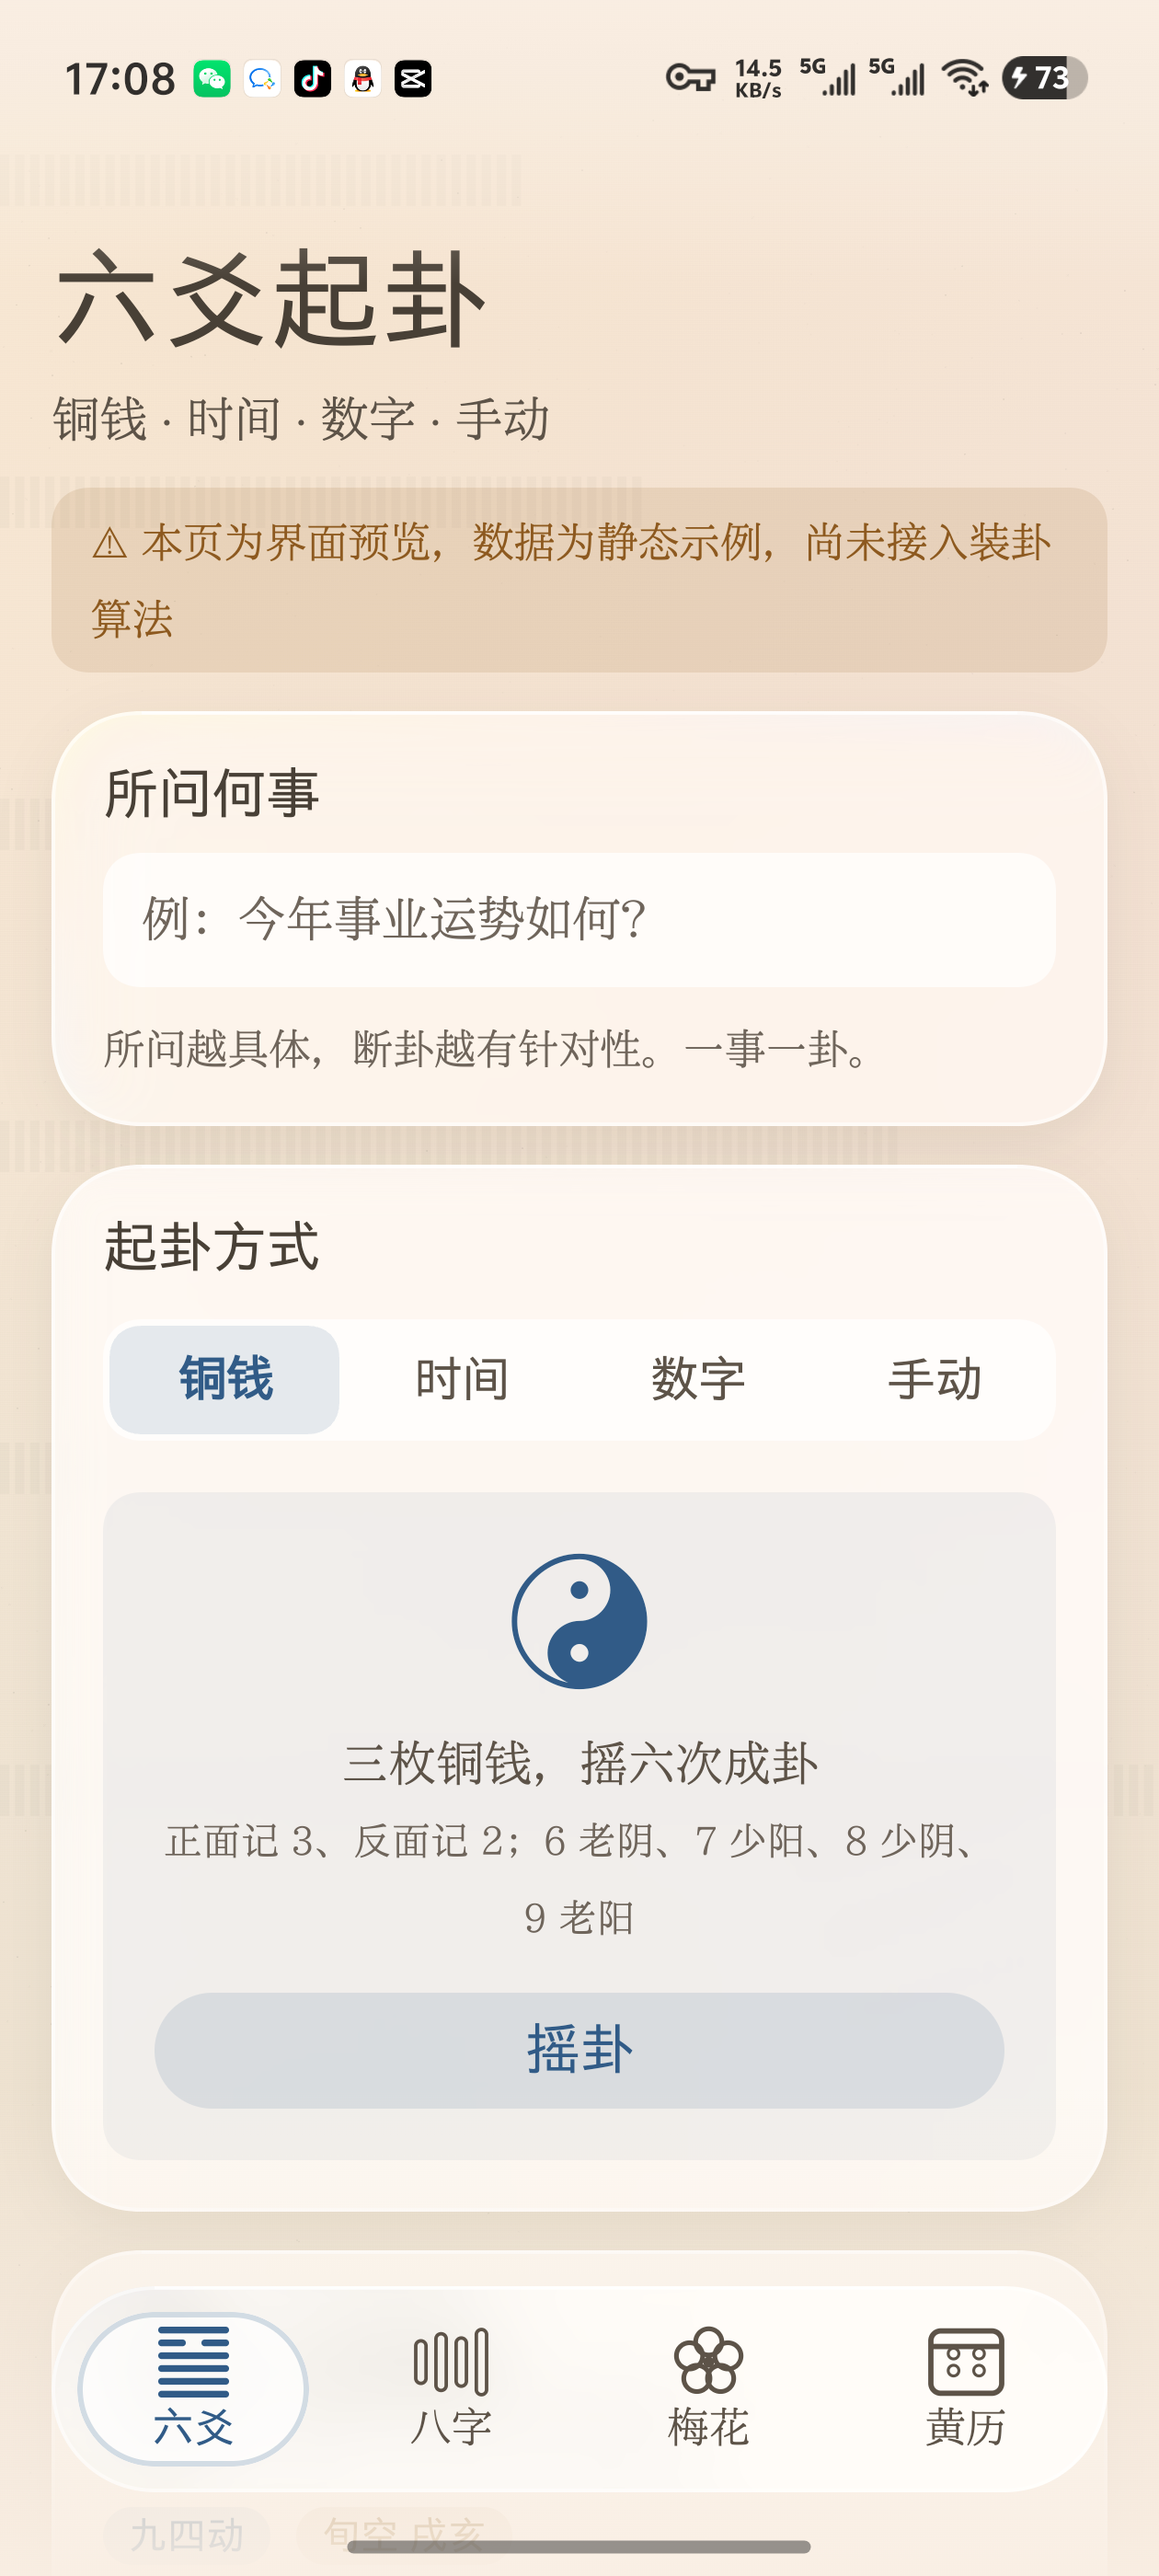
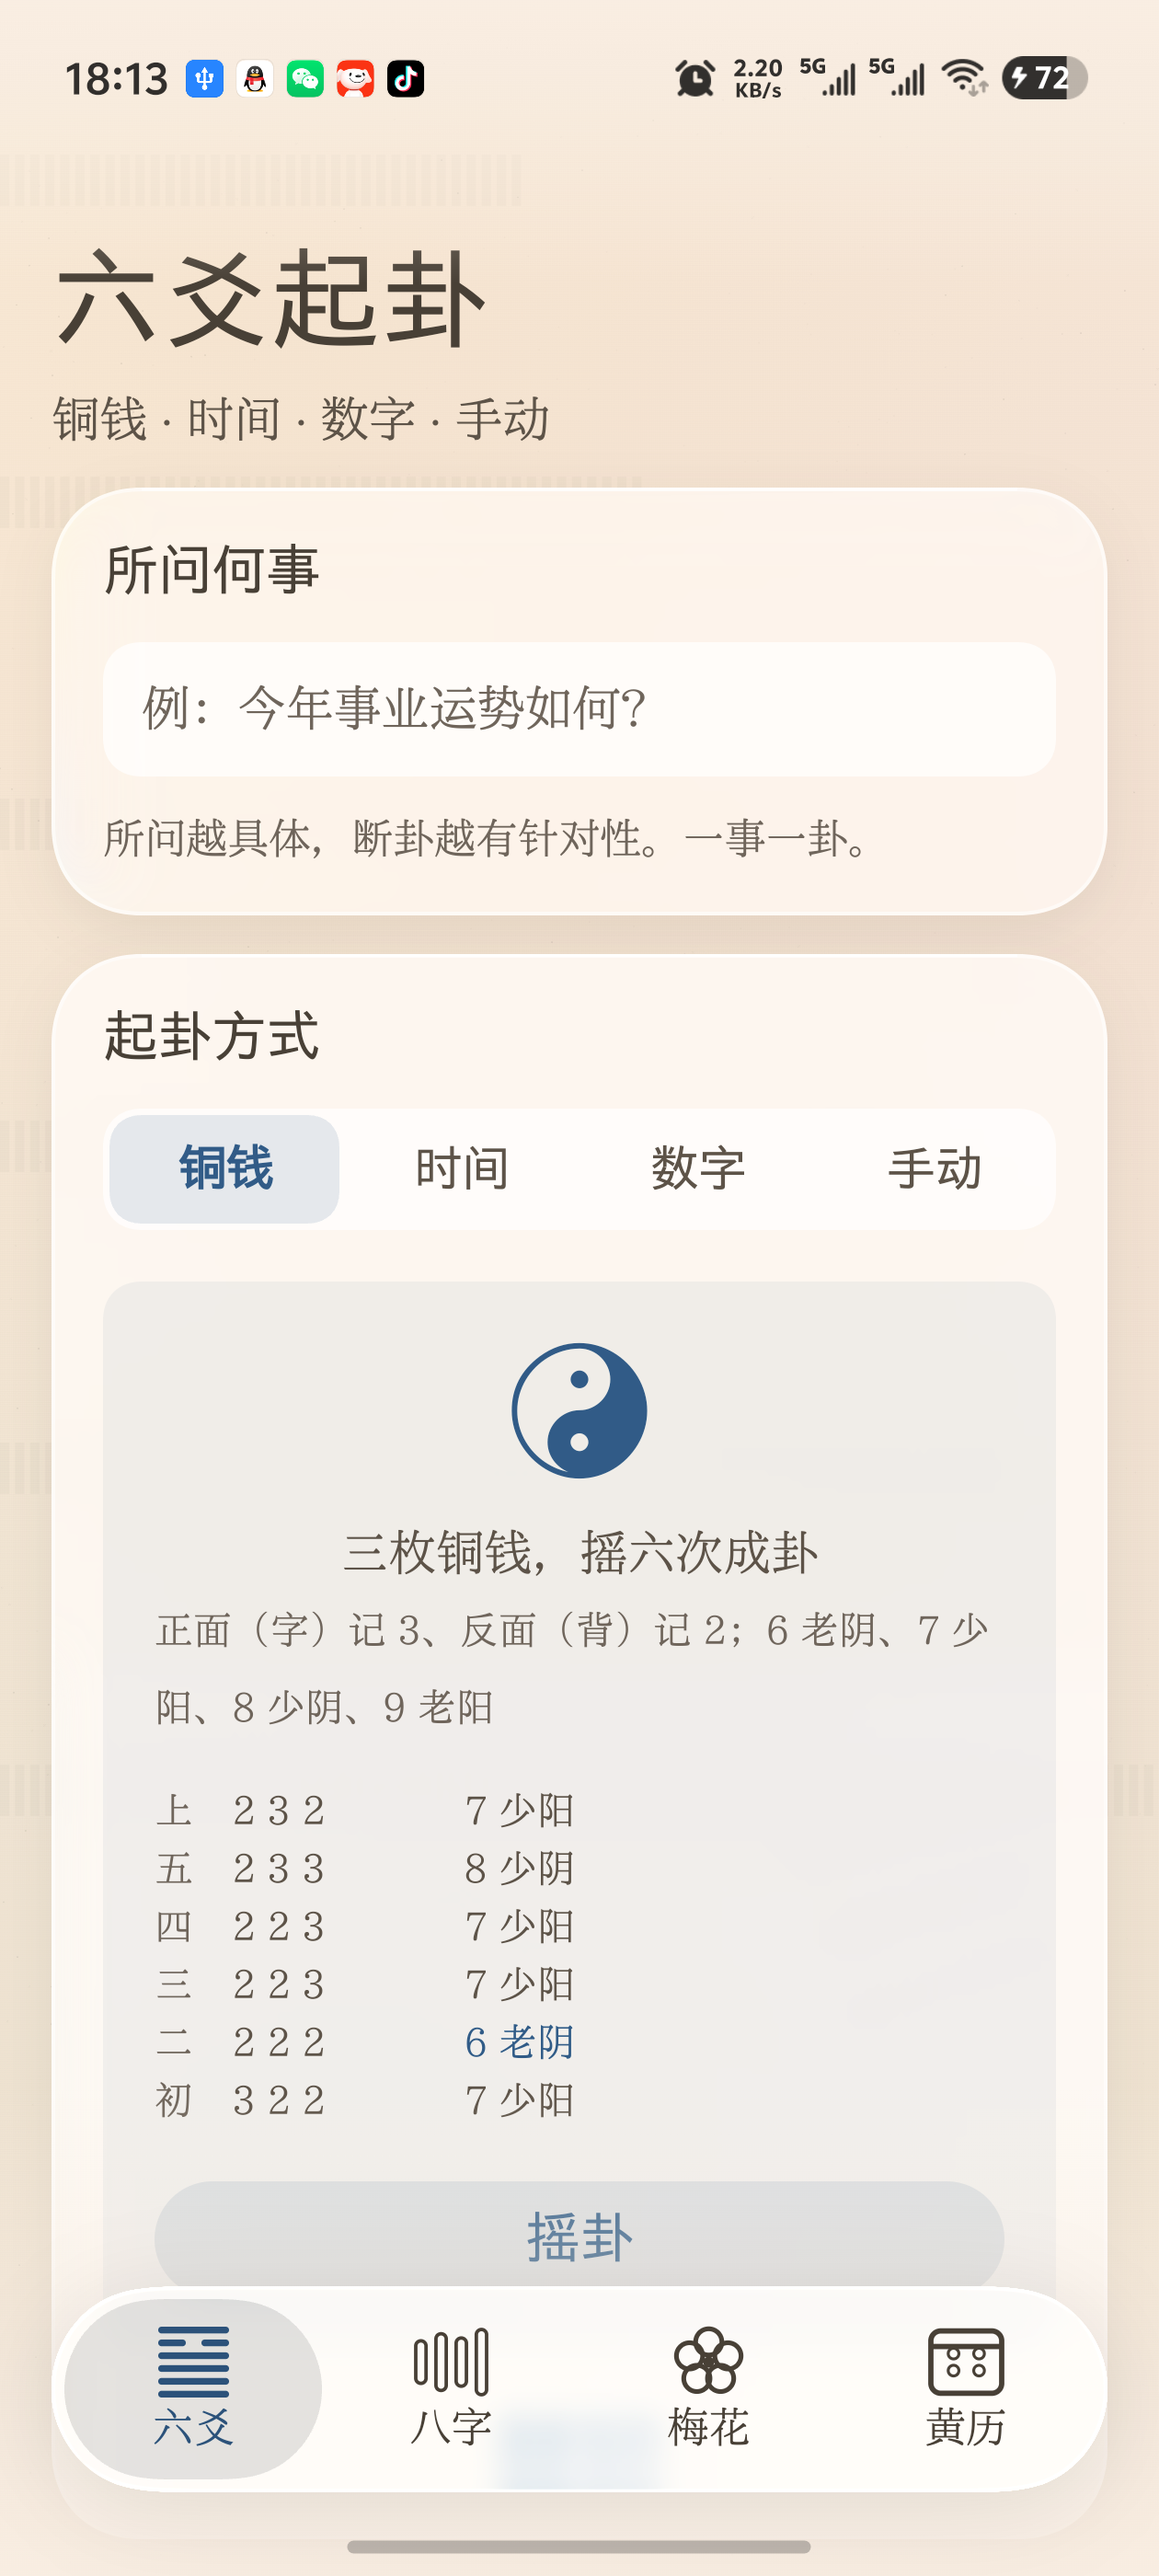
fix: 点 Tab 气泡不动 + 枚举名漏到界面
两个真机实测发现的 bug

1) 点 Tab 页面切换但气泡不动（用户报的）
   根因：`remember(selectedTabIndex)` 以 lambda 为 key。
   MagicScaffold 传的是 `{ selectedTab }` —— 捕获 **Int 值**，值一变 Compose 就得
   重建 lambda，于是 key 变化、remember 重新初始化，生成**新的 MutableIntState**。
   而 effectB 的 `snapshotFlow { currentIndex }` 绑定的是**旧 state 对象**，
   此后永不变化 → 气泡再也不动。页面走另一条路径（外部 tab 状态）所以照常切换。
   修复：
   - LiquidBottomTabs 去掉 remember 的 key（state 对象在生命周期内恒定）
   - MagicScaffold 用 rememberUpdatedState 让传下去的 lambda 实例稳定

2) 课盘显示「戊戌月 · TU旺」「癸亥日 · SHUI」
   根因：领域枚举未重写 toString，默认返回枚举常量名，被字符串插值直接漏到界面。
   修复：WuXing/YinYang/WuXingRelation/HeavenlyStem/EarthlyBranch/Trigram/
        LiuQin/LiuShen/YaoPosition 统一重写 toString 返回中文标签
   并新增 LabelLeakTest（6 用例）钉死这条约束，防止新枚举回归

真机验证（vivo，Android 15）
- 四个 Tab 逐个点击，气泡位置全部正确跟随（像素测量确认）
- 铜钱起卦六次投掷数值全对
- 六爻装卦 + 断卦：风地观属乾宫四世、六亲/世应/伏神/变爻六亲逐项核对无误
- 八字排盘：十神（劫财/伤官/正财）、藏干、纳音逐项核对无误
- 梅花：本卦/互卦/变卦/体用/吉凶全部与算法推导一致
- 全程零崩溃

测试 147 用例 / 0 失败 / 0 错误

diff --git a/core/model/src/test/kotlin/com/maohongyuan/magic/core/model/LabelLeakTest.kt b/core/model/src/test/kotlin/com/maohongyuan/magic/core/model/LabelLeakTest.kt
@@ -1,0 +1,74 @@
+package com.maohongyuan.magic.core.model
+
+import org.junit.Assert.assertEquals
+import org.junit.Assert.assertNotEquals
+import org.junit.Assert.assertTrue
+import org.junit.Test
+
+/**
+ * 标签泄漏防护。
+ *
+ * 领域枚举的 `toString()` 默认返回**枚举常量名**（`TU` / `SHUI` / `QIAN`…）。
+ * 这些枚举在 UI 里到处被写进字符串插值，一旦漏出去就是肉眼可见的错误 ——
+ * 实测出现过黄历课盘显示「戊戌月 · TU旺」而不是「戊戌月 · 土旺」。
+ *
+ * 这组测试把「toString 必须等于中文标签」钉死，避免回归。
+ */
+class LabelLeakTest {
+
+    @Test
+    fun `五行与阴阳的 toString 返回中文`() {
+        WuXing.entries.forEach { assertEquals(it.label, it.toString()) }
+        YinYang.entries.forEach { assertEquals(it.label, it.toString()) }
+        WuXingRelation.entries.forEach { assertEquals(it.label, it.toString()) }
+    }
+
+    @Test
+    fun `天干地支的 toString 返回中文`() {
+        HeavenlyStem.entries.forEach { assertEquals(it.label, it.toString()) }
+        EarthlyBranch.entries.forEach { assertEquals(it.label, it.toString()) }
+    }
+
+    @Test
+    fun `八卦与六亲六神的 toString 返回中文`() {
+        Trigram.entries.forEach { assertEquals(it.label, it.toString()) }
+        LiuQin.entries.forEach { assertEquals(it.label, it.toString()) }
+        LiuShen.entries.forEach { assertEquals(it.label, it.toString()) }
+    }
+
+    @Test
+    fun `爻位的 toString 返回中文序数`() {
+        YaoPosition.entries.forEach { assertEquals(it.ordinalLabel, it.toString()) }
+        assertEquals("初", YaoPosition.CHU.toString())
+        assertEquals("上", YaoPosition.SHANG.toString())
+    }
+
+    @Test
+    fun `toString 都不是枚举常量名`() {
+        // 断言「返回值与常量名不同」—— 这条能抓住「忘了重写 toString」的新枚举
+        WuXing.entries.forEach { assertNotEquals(it.name, it.toString()) }
+        YinYang.entries.forEach { assertNotEquals(it.name, it.toString()) }
+        WuXingRelation.entries.forEach { assertNotEquals(it.name, it.toString()) }
+        HeavenlyStem.entries.forEach { assertNotEquals(it.name, it.toString()) }
+        EarthlyBranch.entries.forEach { assertNotEquals(it.name, it.toString()) }
+        Trigram.entries.forEach { assertNotEquals(it.name, it.toString()) }
+        LiuQin.entries.forEach { assertNotEquals(it.name, it.toString()) }
+        LiuShen.entries.forEach { assertNotEquals(it.name, it.toString()) }
+        YaoPosition.entries.forEach { assertNotEquals(it.name, it.toString()) }
+    }
+
+    @Test
+    fun `字符串插值不会漏出 ASCII 常量名`() {
+        // 模拟真实场景：把枚举直接插进字符串
+        val text = "月建 ${EarthlyBranch.XU}月 · ${EarthlyBranch.XU.wuXing}旺"
+        assertEquals("月建 戌月 · 土旺", text)
+        assertTrue("不应含 ASCII 字母", text.none { it in 'A'..'Z' })
+
+        val text2 = "日辰 ${GanZhi(59)}日 · ${GanZhi(59).branch.wuXing}"
+        assertEquals("日辰 癸亥日 · 水", text2)
+        assertTrue(text2.none { it in 'A'..'Z' })
+
+        val text3 = "体 ${Trigram.DUI} 用 ${Trigram.LI}"
+        assertEquals("体 兑 用 离", text3)
+    }
+}

diff --git a/designsystem/src/main/java/com/maohongyuan/magic/designsystem/glass/MagicScaffold.kt b/designsystem/src/main/java/com/maohongyuan/magic/designsystem/glass/MagicScaffold.kt
@@ -26,6 +26,7 @@ import androidx.compose.material3.Text
 import androidx.compose.runtime.Composable
 import androidx.compose.runtime.CompositionLocalProvider
 import androidx.compose.runtime.remember
+import androidx.compose.runtime.rememberUpdatedState
 import androidx.compose.runtime.staticCompositionLocalOf
 import androidx.compose.ui.Alignment
 import androidx.compose.ui.Modifier
@@ -113,6 +114,9 @@ fun MagicScaffold(
     // 键盘弹出时底栏让位：否则底栏会悬在键盘上面，或与键盘重叠
     val imeVisible = WindowInsets.ime.getBottom(density) > 0
 
+    // 包成 State 供底栏读取 —— 让传下去的 lambda 实例保持稳定，见下方注释
+    val selectedTabState = rememberUpdatedState(selectedTab)
+
     CompositionLocalProvider(LocalOpenSettings provides onOpenSettings) {
         MagicBackdrop(
             modifier = modifier,
@@ -155,7 +159,16 @@ fun MagicScaffold(
 
                 if (!imeVisible) {
                     LiquidBottomTabs(
-                        selectedTabIndex = { selectedTab },
+                        // ⚠ 必须传**实例稳定**的 lambda。
+                        //
+                        // 直接写 `{ selectedTab }` 会捕获 Int **值**：值一变，Compose 就得
+                        // 重建 lambda，dock 内部的 LaunchedEffect(selectedTabIndex) 随之重启。
+                        // 更早的版本还因此触发过 `remember(key)` 重置、把气泡的驱动链断掉
+                        // （表现为「点 Tab 页面会切、气泡不动」）。
+                        //
+                        // 用 rememberUpdatedState 把值包成 State，lambda 捕获的是**稳定的 State 对象**，
+                        // 实例在组件生命周期内恒定。
+                        selectedTabIndex = { selectedTabState.value },
                         onTabSelected = onSelectTab,
                         // 覆盖层 → 内容折射源：气泡能真实折射页面内容
                         backdrop = LocalContentBackdrop.current ?: LocalBackdrop.current,

diff --git a/designsystem/src/main/java/com/maohongyuan/magic/designsystem/glass/LiquidBottomTabs.kt b/designsystem/src/main/java/com/maohongyuan/magic/designsystem/glass/LiquidBottomTabs.kt
@@ -144,7 +144,21 @@ fun LiquidBottomTabs(
 
         val isLtr = LocalLayoutDirection.current == LayoutDirection.Ltr
         val animationScope = rememberCoroutineScope()
-        var currentIndex by remember(selectedTabIndex) {
+
+        // ⚠ 这里**绝对不能**写成 `remember(selectedTabIndex) { ... }`。
+        //
+        // 官方原版用的是 `remember(selectedTabIndex)`，但它的调用方传的是**稳定 lambda**
+        // （捕获 State 对象，实例不随值变化）。本项目调用方传的是 `{ selectedTab }` ——
+        // 捕获的是 **Int 值**，值一变 Compose 就得造新 lambda，于是 key 变化、
+        // `remember` 重新初始化，**生成一个新的 MutableIntState**。
+        //
+        // 后果：下面 effectB 里的 `snapshotFlow { currentIndex }` 绑定的是**旧 state 对象**，
+        // 它此后永不变化 → 气泡再也不动。而页面走的是另一条路径（外部 tab 状态直接变），
+        // 所以表现为「点 Tab 页面会切，但气泡不动」。
+        //
+        // 去掉 key 后 state 对象在组件生命周期内恒定，snapshotFlow 才能持续观测到变化。
+        // 外部选中变化由 effectA 负责同步，本来也不需要这个 key。
+        var currentIndex by remember {
             mutableIntStateOf(selectedTabIndex())
         }
         val dampedDragAnimation = remember(animationScope) {

diff --git a/core/model/src/main/kotlin/com/maohongyuan/magic/core/model/WuXing.kt b/core/model/src/main/kotlin/com/maohongyuan/magic/core/model/WuXing.kt
@@ -23,6 +23,16 @@ enum class WuXing(val label: String) {
     SHUI("水"),
     ;
 
+    /**
+     * ⚠ 必须重写 `toString()` 返回中文标签。
+     *
+     * 默认实现返回**枚举常量名**（`TU` / `SHUI` / `MU`…），
+     * 一旦被写进字符串插值就会直接漏到界面上 —— 实测出现过
+     * 「戊戌月 · TU旺」这种明显错误的展示。
+     * 这些枚举在 UI 里到处被插值，统一在这里兜住，比在每个调用点加 `.label` 可靠。
+     */
+    override fun toString(): String = label
+
     /** 我生者（我泄气于它） */
     val generates: WuXing get() = entries[(ordinal + 1) % 5]
 
@@ -46,6 +56,9 @@ enum class YinYang(val label: String) {
     YIN("阴"),
     ;
 
+    /** ⚠ 必须返回中文标签，否则枚举名（YANG/YIN）会漏到界面上。 */
+    override fun toString(): String = label
+
     val opposite: YinYang get() = if (this == YANG) YIN else YANG
 }
 
@@ -68,6 +81,9 @@ enum class WuXingRelation(val label: String) {
     /** 它克我 */
     IT_OVERCOMES("克我"),
     ;
+
+    /** ⚠ 必须返回中文标签，否则枚举名（SAME/I_GENERATE…）会漏到界面上。 */
+    override fun toString(): String = label
 
     companion object {
         /** 以 [self] 为我，判断 [other] 与我的关系。 */

diff --git a/core/model/src/main/kotlin/com/maohongyuan/magic/core/model/GanZhi.kt b/core/model/src/main/kotlin/com/maohongyuan/magic/core/model/GanZhi.kt
@@ -15,6 +15,16 @@ enum class HeavenlyStem(val label: String) {
     REN("壬"), GUI("癸"),
     ;
 
+    /**
+     * ⚠ 必须重写 `toString()` 返回中文标签。
+     *
+     * 默认实现返回**枚举常量名**（`TU` / `SHUI` / `MU`…），
+     * 一旦被写进字符串插值就会直接漏到界面上 —— 实测出现过
+     * 「戊戌月 · TU旺」这种明显错误的展示。
+     * 这些枚举在 UI 里到处被插值，统一在这里兜住，比在每个调用点加 `.label` 可靠。
+     */
+    override fun toString(): String = label
+
     val wuXing: WuXing get() = WuXing.entries[ordinal / 2]
 
     val yinYang: YinYang get() = if (ordinal % 2 == 0) YinYang.YANG else YinYang.YIN
@@ -45,6 +55,9 @@ enum class EarthlyBranch(val label: String, val zodiac: String, val wuXing: WuXi
     XU("戌", "狗", WuXing.TU),
     HAI("亥", "猪", WuXing.SHUI),
     ;
+
+    /** ⚠ 必须返回中文标签，否则枚举名（ZI/CHOU…）会漏到界面上。 */
+    override fun toString(): String = label
 
     val yinYang: YinYang get() = if (ordinal % 2 == 0) YinYang.YANG else YinYang.YIN
 

diff --git a/core/model/src/main/kotlin/com/maohongyuan/magic/core/model/LiuYao.kt b/core/model/src/main/kotlin/com/maohongyuan/magic/core/model/LiuYao.kt
@@ -21,6 +21,9 @@ enum class LiuQin(val label: String) {
     ZI_SUN("子孙"),
     ;
 
+    /** ⚠ 必须返回中文标签，否则枚举名（FU_MU 等）会漏到界面上。 */
+    override fun toString(): String = label
+
     companion object {
         /**
          * 以 [palaceWuXing]（卦宫五行）为我，推导 [yaoWuXing] 的六亲。
@@ -62,6 +65,9 @@ enum class LiuShen(val label: String) {
     XUAN_WU("玄武"),
     ;
 
+    /** ⚠ 必须返回中文标签，否则枚举名（QING_LONG 等）会漏到界面上。 */
+    override fun toString(): String = label
+
     companion object {
         /** 日干 → 初爻所配六神的下标。 */
         private val START_BY_STEM = intArrayOf(
@@ -101,6 +107,9 @@ enum class YaoPosition(val index: Int, val ordinalLabel: String) {
     WU(4, "五"),
     SHANG(5, "上"),
     ;
+
+    /** ⚠ 必须返回中文标签，否则枚举名（CHU/ER…）会漏到界面上。 */
+    override fun toString(): String = ordinalLabel
 
     /**
      * 爻题。阳爻称「九」，阴爻称「六」。

diff --git a/core/model/src/main/kotlin/com/maohongyuan/magic/core/model/Trigram.kt b/core/model/src/main/kotlin/com/maohongyuan/magic/core/model/Trigram.kt
@@ -40,6 +40,9 @@ enum class Trigram(
     KUN("坤", "☷", 0b000, WuXing.TU, "西南", "母"),
     ;
 
+    /** ⚠ 必须返回中文标签，否则枚举名（QIAN/DUI…）会漏到界面上。 */
+    override fun toString(): String = label
+
     /** 初爻是否为阳 */
     val bottomYang: Boolean get() = (bits and 0b001) != 0
 
